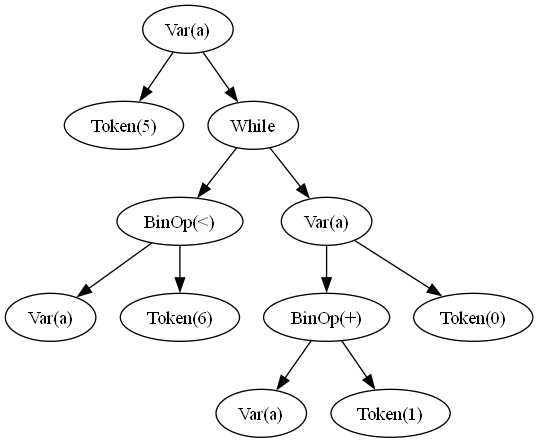
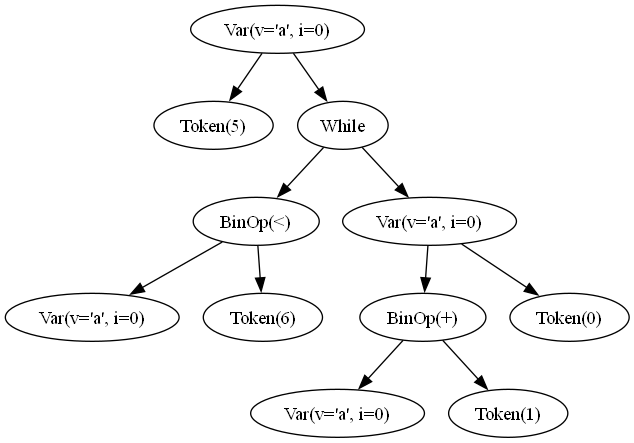
Scoping implemented

diff --git a/lexer.py b/lexer.py
@@ -57,20 +57,8 @@ def lex(s: str) -> Iterator[Token]:
                 i = i + 1
             if t in keywords:
                 yield KeywordToken(t)
-                # if t == "let":
-                #     while i < len(s) and s[i].isspace():
-                #         i += 1
-                #     # If the next sequence is a valid variable name, yield it
-                #     if i < len(s) and s[i].isalpha():
-                #         var = s[i]
-                #         i += 1
-                #         while i < len(s) and s[i].isalpha():
-                #             var += s[i]
-                #             i += 1
-                #         yield VariableToken(var)
             else:
                 yield VariableToken(t)
-                # raise ValueError(f"Unexpected keyword: {t}")
 
         elif s[i].isdigit():
             t = s[i]

diff --git a/main.py b/main.py
@@ -27,11 +27,11 @@ def visualize_ast(node, graph=None, parent=None, counter=None):
     elif isinstance(node, If):
         label = "If"
     elif isinstance(node, Let):
-        label = f"Var({node.v})"
+        label = f"{node.v}"
     elif isinstance(node, While):
         label = "While"
     elif isinstance(node, Var):
-        label = f"Var({node.v})"
+        label = f"{node}"
     else:
         label = "Unknown"
 
@@ -78,8 +78,10 @@ if __name__ == "__main__":
 
     graph = visualize_ast(ast)
     graph.render("ast_tree", view=True)
-    
+
+    print("-------------------------------------")
     abt = resolve(ast)
+
     graph = visualize_ast(abt)
     graph.render("abt_tree", view=True)
 

diff --git a/parser.py b/parser.py
@@ -28,7 +28,7 @@ def parse(s: str) -> AST:
                 expect(KeywordToken("in"))
                 f = parse_let()
                 expect(KeywordToken("end"))
-                return Let(vt.v, e, f)
+                return Let(Var(vt.v), e, f)
             case _:
                 return parse_fun()
             
